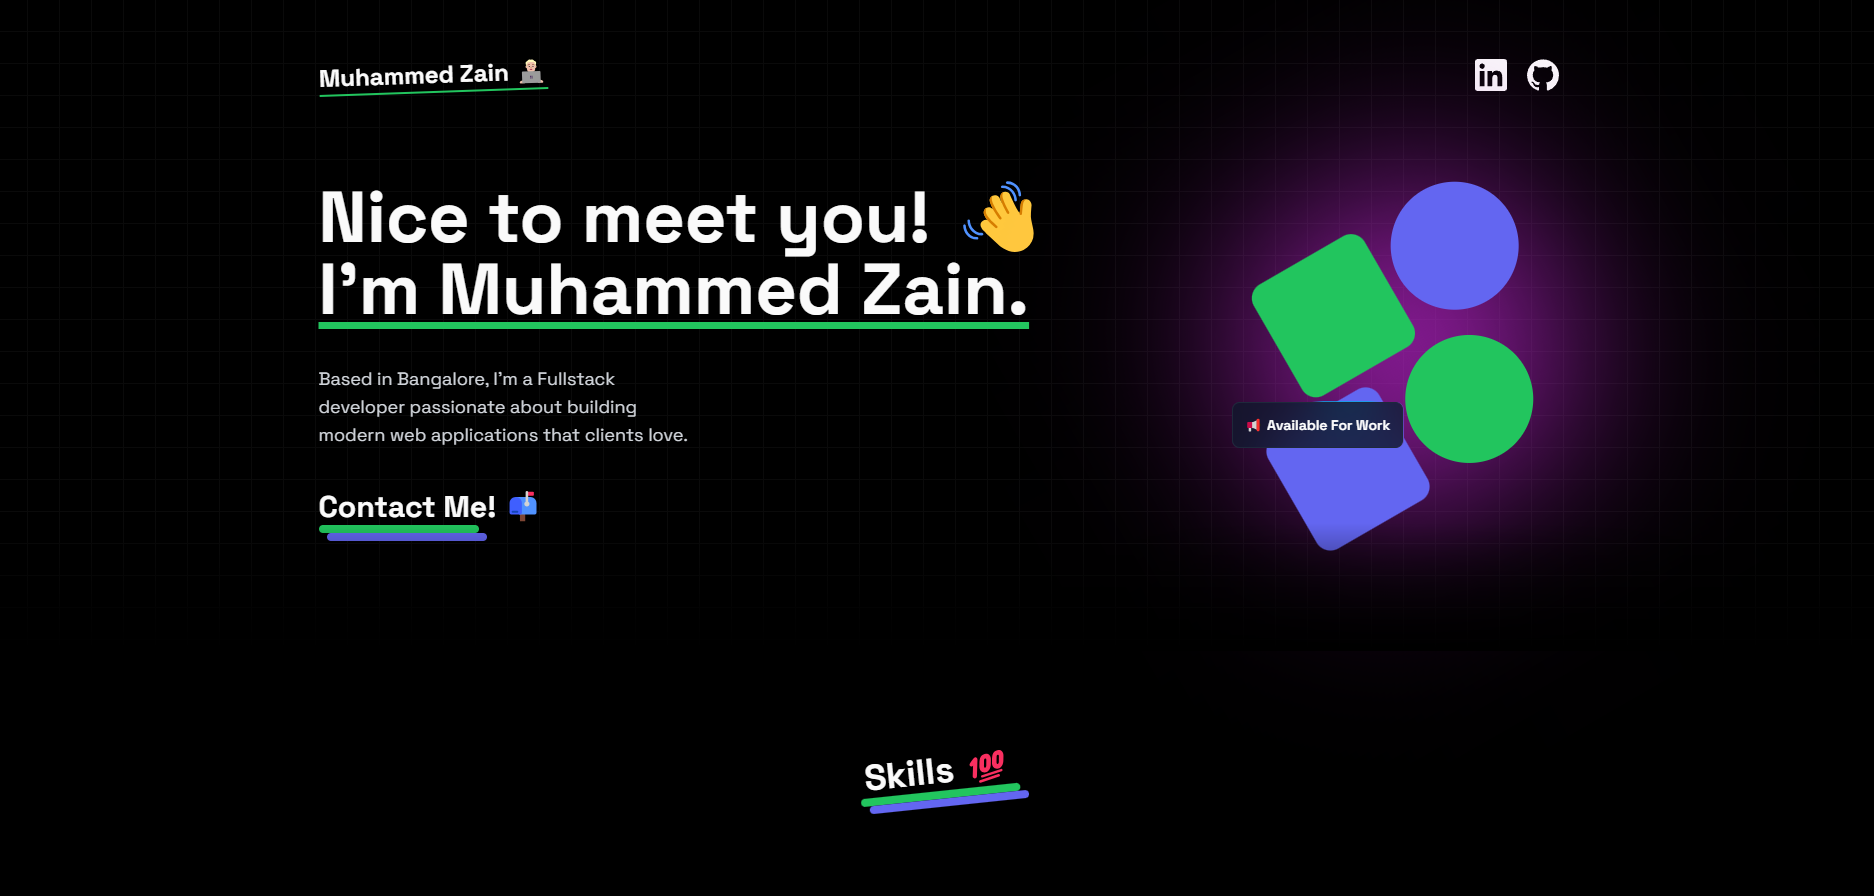
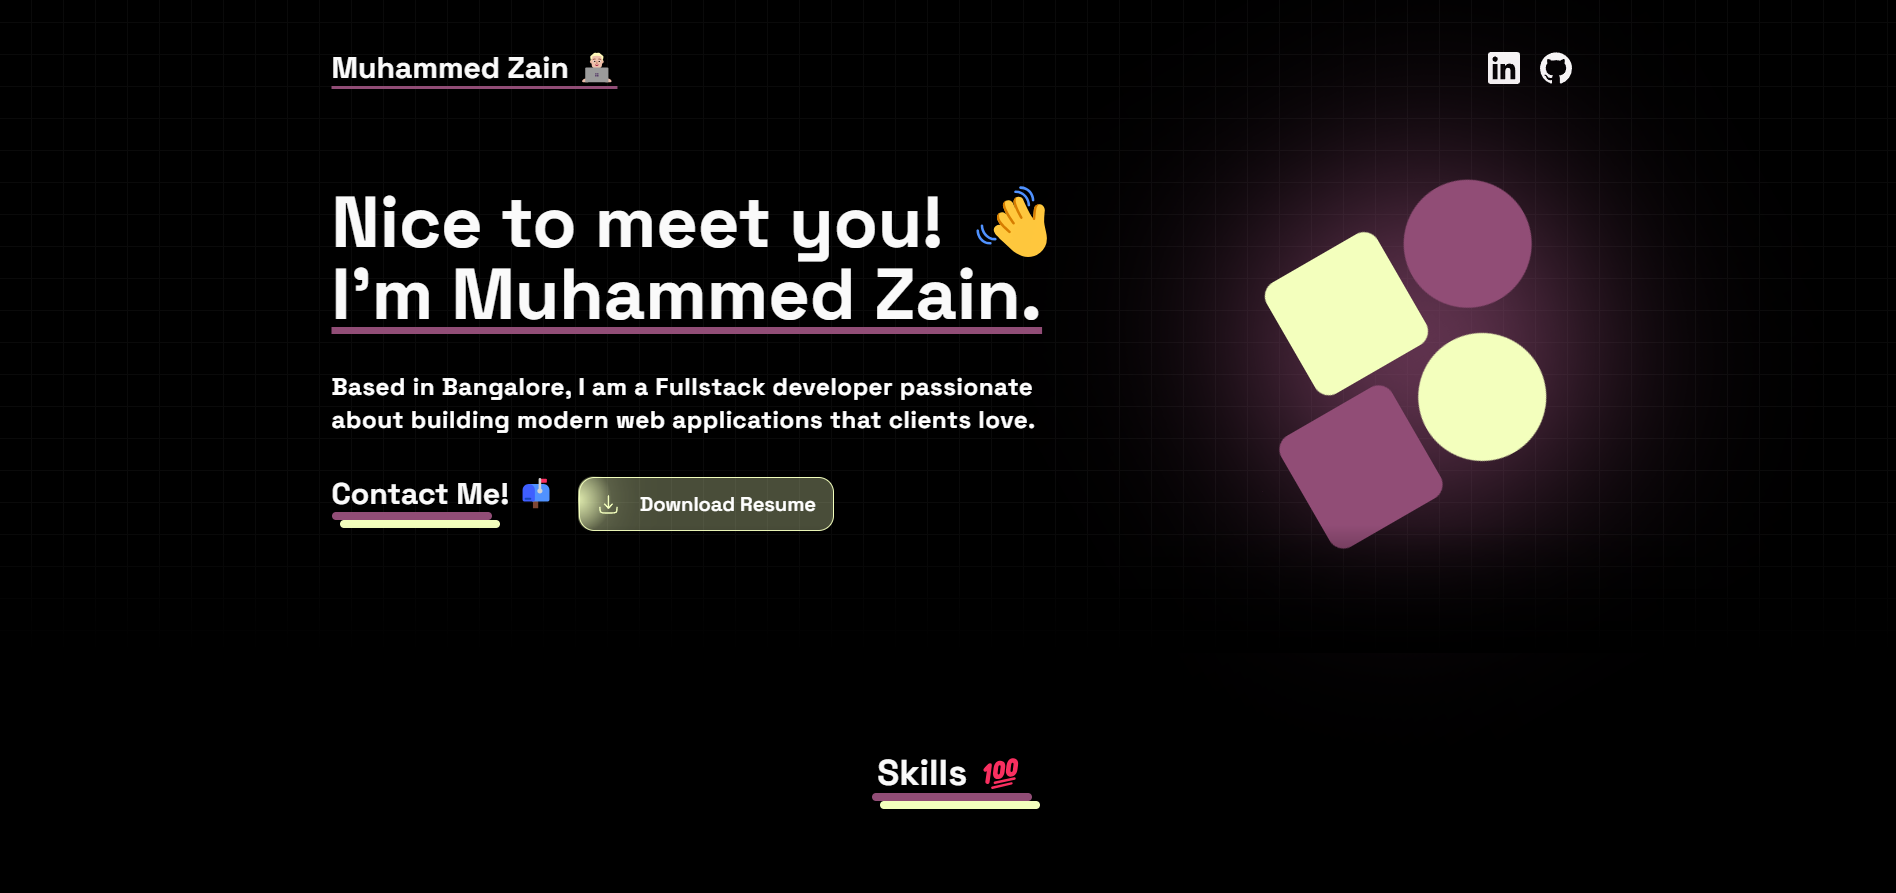
change email, metadata image, and resume

diff --git a/app/(home)/components/HeroSection.tsx b/app/(home)/components/HeroSection.tsx
@@ -18,22 +18,22 @@ const HeroSection = () => {
                          <TextGenerateEffect words={textGenerateWord} />
                     </div>
                     <div className='flex gap-5 flex-col md:flex-row justify-center lg:justify-start items-center md:items-start'>
-                         <Link href={"mailto:mohdzain2002@gmail.com"} target="_blank" className='inline-block group mb-12 md:mb-0'>
+                         <Link href={"mailto:muhammedzainjambagi@gmail.com"} target="_blank" className='inline-block group mb-12 md:mb-0'>
                               <Title text='Contact Me! 📫' className='text-3xl flex flex-col sm:items-center md:items-start' />
                          </Link>
                          <MovingBorderBtn
                               borderRadius="1rem"
                               className="p-3 font-semibold group-hover:bg-[#0f172a]/15 transition-all duration-500 ease-in-out group-hover:backdrop-blur-lg"
                          >
-                              <Link href={"https://drive.google.com/file/d/1yEiN4QOuIaMVxNkhKO_7GksyzBghr8sh/view"} target="_blank">
+                              <Link href={"https://drive.google.com/file/d/1AurjdropElA26EG1ImTI0noc5WAT8lhp/view?usp=sharing"} target="_blank">
                                    <h1 className='text-xl flex justify-center items-center gap-5 '>
                                         <svg width="10%" height="10%" viewBox="0 0 24 24" fill="none" xmlns="http://www.w3.org/2000/svg">
 
-                                             <g id="SVGRepo_bgCarrier" stroke-width="0" />
+                                             <g id="SVGRepo_bgCarrier" strokeWidth="0" />
 
-                                             <g id="SVGRepo_tracerCarrier" stroke-linecap="round" stroke-linejoin="round" />
+                                             <g id="SVGRepo_tracerCarrier" strokeLinecap="round" strokeLinejoin="round" />
 
-                                             <g id="SVGRepo_iconCarrier"> <path d="M3 15C3 17.8284 3 19.2426 3.87868 20.1213C4.75736 21 6.17157 21 9 21H15C17.8284 21 19.2426 21 20.1213 20.1213C21 19.2426 21 17.8284 21 15" stroke="#f3ffbd" stroke-width="1.5" stroke-linecap="round" stroke-linejoin="round" /> <path d="M12 3V16M12 16L16 11.625M12 16L8 11.625" stroke="#f3ffbd" stroke-width="1.5" stroke-linecap="round" stroke-linejoin="round" /> </g>
+                                             <g id="SVGRepo_iconCarrier"> <path d="M3 15C3 17.8284 3 19.2426 3.87868 20.1213C4.75736 21 6.17157 21 9 21H15C17.8284 21 19.2426 21 20.1213 20.1213C21 19.2426 21 17.8284 21 15" stroke="#f3ffbd" strokeWidth="1.5" strokeLinecap="round" strokeLinejoin="round" /> <path d="M12 3V16M12 16L16 11.625M12 16L8 11.625" stroke="#f3ffbd" strokeWidth="1.5" strokeLinecap="round" strokeLinejoin="round" /> </g>
 
                                         </svg> <div className='text-sm md:text-xl'>Download Resume</div></h1>
                               </Link>
